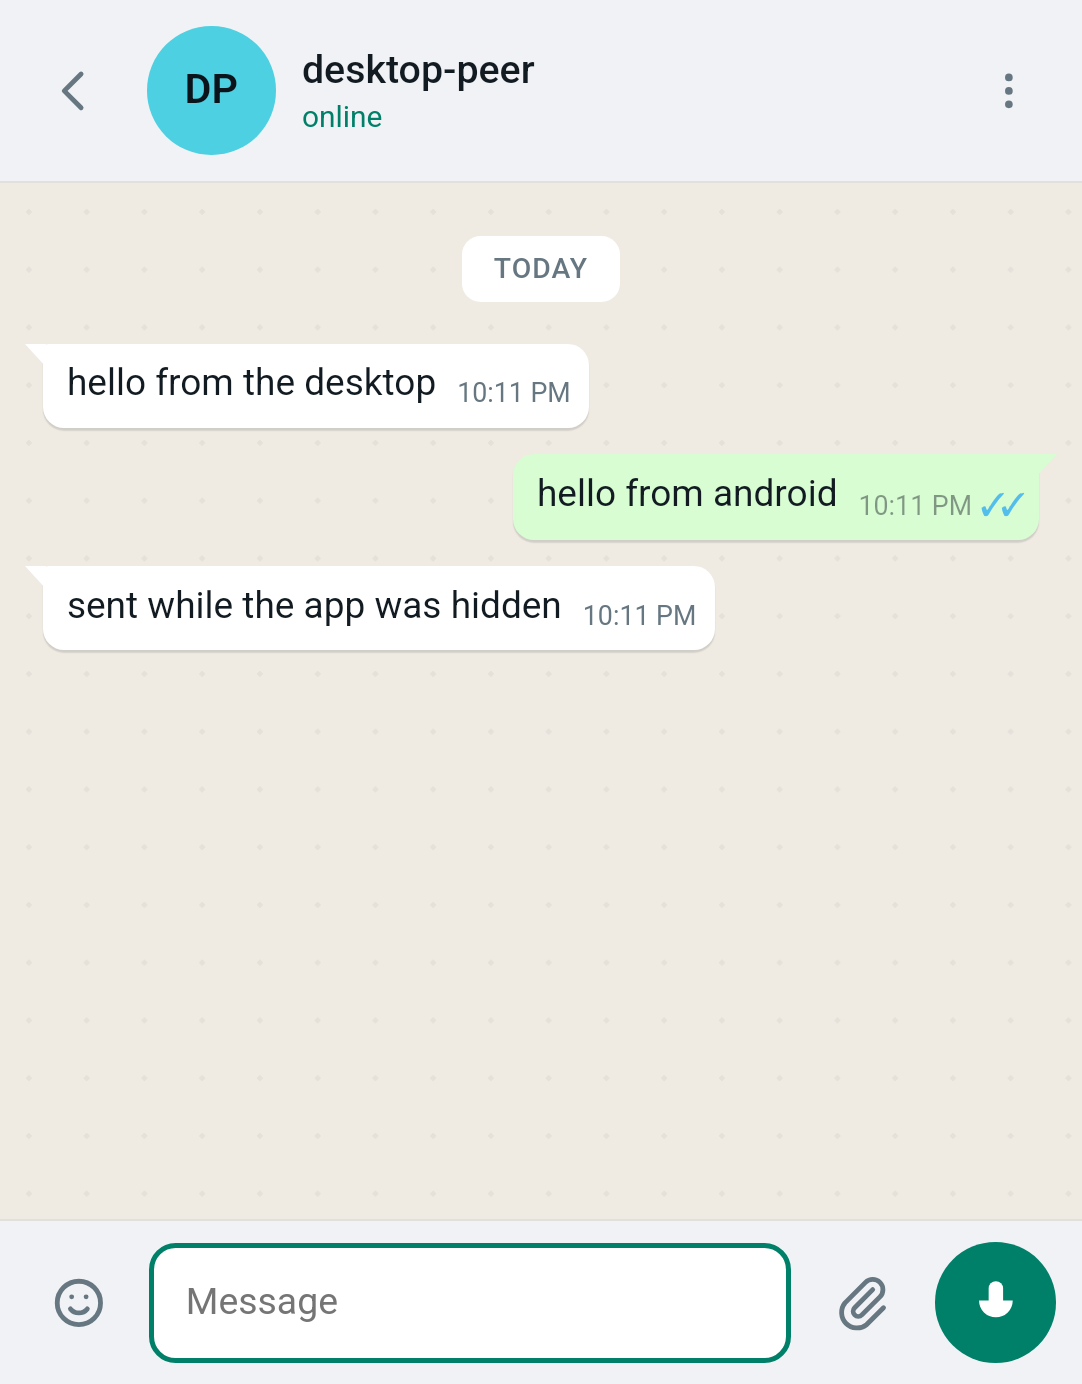
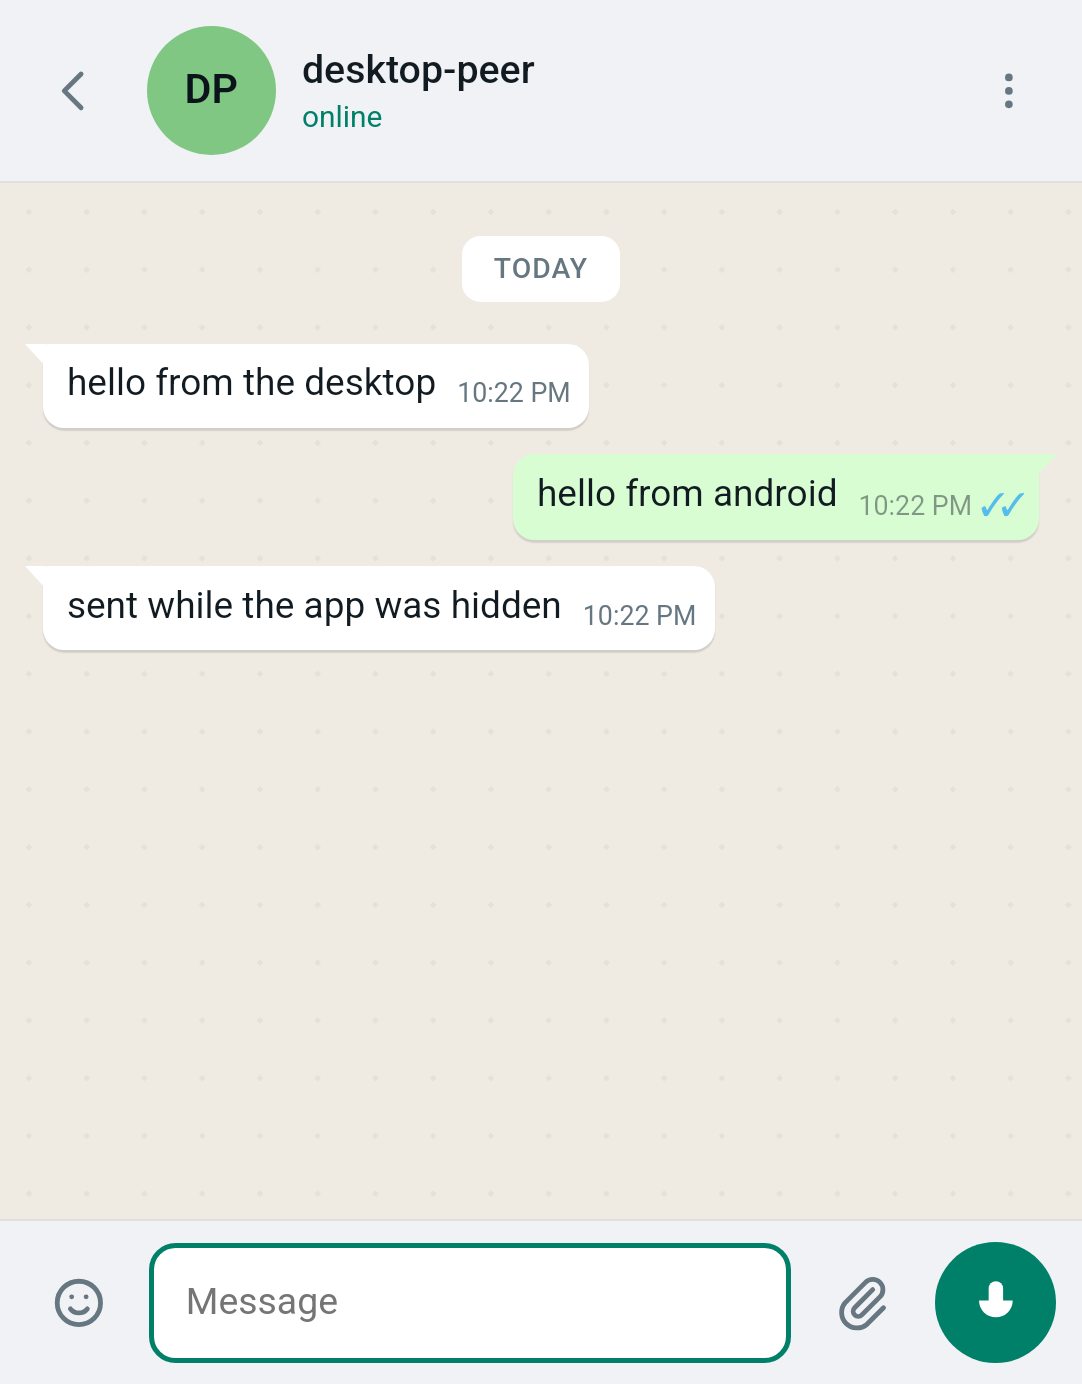
Add CI: tests, APK build, and an optional release
Three workflows:
- CI runs the unit and browser suites on the runner's Chrome, then builds a
  debug APK and uploads it as an artifact.
- Release builds a release APK on a tag, signed when the keystore secrets are
  present and clearly marked unsigned when they are not.
- Android end-to-end installs the APK on an emulator and runs the device suite.
  Manual only, so a slow emulator never blocks a merge.

Making this work from a clean checkout turned up three real bugs in the swarm
path, all of which only appear with a third peer:

- Chunks served by another member arrived tagged with an id the receiver had not
  registered yet, and were dropped. The transfer is now registered before
  anything is requested from anyone.
- Binary frames from mesh links were never routed to the application, so a peer
  could serve a whole file into the void. Text messages were already handed
  over; frames were not.
- A member who joined after a file was shared never heard that anyone held it,
  because the announcement had already gone out. Members now re-state what they
  hold when the roster changes.

Also: adb is discovered on the PATH as well as in the project, so the device
suite runs on CI as well as locally.

diff --git a/src/app.js b/src/app.js
@@ -1054,6 +1054,9 @@ function wireGroup(group) {
   group.addEventListener('peer-message', ({ detail }) => {
     routeMessage(detail.session, detail.message);
   });
+  group.addEventListener('frame', ({ detail }) => {
+    receiveFileChunk(detail.session, detail.data);
+  });
   group.addEventListener('message', async ({ detail }) => {
     const chat = state.chats.get(chatIdForGroup(group));
     if (!chat || chat.kind !== 'room') return;
@@ -1076,6 +1079,9 @@ function wireGroup(group) {
     renderGroupPanel();
     renderChatHeader();
     updateComposerState();
+    // Somebody new cannot know what was shared before they arrived: the
+    // announcement only reached whoever was connected at the time. Say it again.
+    reannounceHoldings().catch(() => {});
   });
   group.addEventListener('warning', ({ detail }) => toast(detail.message));
 }
@@ -1410,9 +1416,24 @@ async function receiveFileOffer(session, msg) {
     return;
   }
 
+  const transfer = new IncomingTransfer({
+    offer,
+    onProgress: (progress) => setProgress(chatId, message.id, progress, 'receiving'),
+    onComplete: () => finishIncoming(session, chatId, message.id, offer),
+    onError: (error) => failAttachment(chatId, message.id, error.message),
+  });
+  const entry = { transfer, chatId, messageId: message.id, offer };
+
+  // Registered before anything is requested from anybody: the replies from other
+  // peers arrive tagged with ids that have to already be known here, or they are
+  // dropped on the floor.
+  state.receiving.set(msg.transferId, entry);
+
+  const held = await state.transfers.heldSequences(offer.fileId);
+  transfer.seed(held);
+
   // In a room, other members may already hold this file: take shares from them
   // and tell the original sender to skip what they are covering.
-  let held = await state.transfers.heldSequences(offer.fileId);
   let claimed = held;
   if (state.group && chat.kind === 'room') {
     claimed = await requestFromPeers(offer);
@@ -1424,15 +1445,6 @@ async function receiveFileOffer(session, msg) {
     bitmap: b64urlEncode(encodeBitmap(claimed, offer.chunks)),
   });
 
-  const transfer = new IncomingTransfer({
-    offer,
-    onProgress: (progress) => setProgress(chatId, message.id, progress, 'receiving'),
-    onComplete: () => finishIncoming(session, chatId, message.id, offer),
-    onError: (error) => failAttachment(chatId, message.id, error.message),
-  });
-  transfer.seed(held);
-
-  state.receiving.set(msg.transferId, { transfer, chatId, messageId: message.id, offer });
   if (transfer.progress >= 1) await finishIncoming(session, chatId, message.id, offer);
   if (state.activeChatId === chatId) renderConversation();
 }
@@ -1916,6 +1928,14 @@ function announceAvailability(chatId, offer) {
     mime: offer.mime,
   });
   noteHolder(offer.fileId, myKeyHex());
+}
+
+/** Re-state which files we hold, so late arrivals can fetch them from us. */
+async function reannounceHoldings() {
+  if (!state.group) return;
+  for (const fileId of await state.transfers.mediaIds()) {
+    state.group.flood({ t: TRANSFER.AVAILABLE, fileId });
+  }
 }
 
 function receiveAvailable(session, msg) {

diff --git a/src/transfers.js b/src/transfers.js
@@ -17,7 +17,7 @@
  * peer that already has a file can say so without receiving it again.
  */
 
-import { idbGet, idbSet, idbDelete, idbKeysFrom, idbAll } from './store.js';
+import { idbGet, idbSet, idbDelete, idbKeysFrom, idbAll, idbKeys } from './store.js';
 
 export const chunkKey = (fileId, sequence) => `${fileId}:${sequence}`;
 
@@ -88,6 +88,11 @@ export class TransferStore {
 
   async hasMedia(fileId) {
     return Boolean(await idbGet('media', fileId));
+  }
+
+  /** Every file this device holds, for announcing itself as a source. */
+  async mediaIds() {
+    return (await idbKeys('media')) ?? [];
   }
 
   async dropMedia(fileId) {

diff --git a/src/group.js b/src/group.js
@@ -117,6 +117,11 @@ export class GroupSession extends EventTarget {
     session.addEventListener('message', (event) => {
       this.#onMessage(event.detail, key).catch(() => {});
     });
+    // Binary frames matter too: a member serving file chunks to another member
+    // sends them over this link, and they are not control messages.
+    session.addEventListener('frame', (event) => {
+      this.#emit('frame', { data: event.detail.data, peerKey: key, session });
+    });
     session.addEventListener('close', () => {
       this.links.delete(key);
       const member = this.members.get(key);

diff --git a/README.md b/README.md
@@ -328,6 +328,60 @@ message expires, the sweeper drops any stored blob nothing points at any more.
 
 ---
 
+## Continuous integration
+
+Two workflows in `.github/workflows`:
+
+| Workflow | Trigger | What it does |
+|---|---|---|
+| **CI** | every push to `main` and every pull request | unit tests, the browser suite on the runner's own Chrome, and a debug APK uploaded as an artifact |
+| **Release** | a `v*` tag, or manually | a release APK, signed if the keystore secrets are set, attached to the GitHub release |
+
+A third job, **Android end-to-end**, installs the APK on an emulator and runs the
+`test:android` suite. It only runs on `workflow_dispatch`, because an emulator
+takes minutes and should verify a release rather than block a merge. Trigger it
+by hand from the Actions tab when you want it.
+
+### What CI needs
+
+Nothing but the repository. GitHub's Ubuntu runners already have Google Chrome
+and the Android SDK, and a **debug APK is signed with an automatically generated
+debug keystore**, so no secrets are involved. The workflow installs
+`platforms;android-36` and `build-tools;36.0.0` because the Capacitor project
+targets API 36 and the preinstalled image may lag behind.
+
+The order matters: `dist/` and the Capacitor asset directory are build outputs
+and are not committed, so the APK job runs `npm run build:web` and `npx cap sync
+android` before Gradle.
+
+### Optional: a signed release APK
+
+Debug APKs are fine for testing and cannot be published. To produce an installable
+release build, add four repository secrets under **Settings → Secrets and
+variables → Actions**:
+
+| Secret | What it is |
+|---|---|
+| `ANDROID_KEYSTORE_BASE64` | your `.jks` file, base64 encoded: `base64 -i release.jks \| pbcopy` |
+| `ANDROID_KEYSTORE_PASSWORD` | the store password |
+| `ANDROID_KEY_ALIAS` | the key alias |
+| `ANDROID_KEY_PASSWORD` | the key password |
+
+Create the keystore once, and keep it somewhere you will not lose it — Android
+will not accept an update signed with a different key:
+
+```bash
+keytool -genkeypair -v -keystore release.jks -alias wisp \
+  -keyalg RSA -keysize 2048 -validity 10000
+```
+
+Without those secrets the Release workflow still succeeds: it builds an unsigned
+APK, names it `-UNSIGNED` so nobody tries to install it, and says so in the log.
+The signing config only engages when `WISP_KEYSTORE` is set, so a fork builds
+with no secrets at all.
+
+---
+
 ## The shell
 
 The whole app follows the layout people already know, rather than inventing one:
